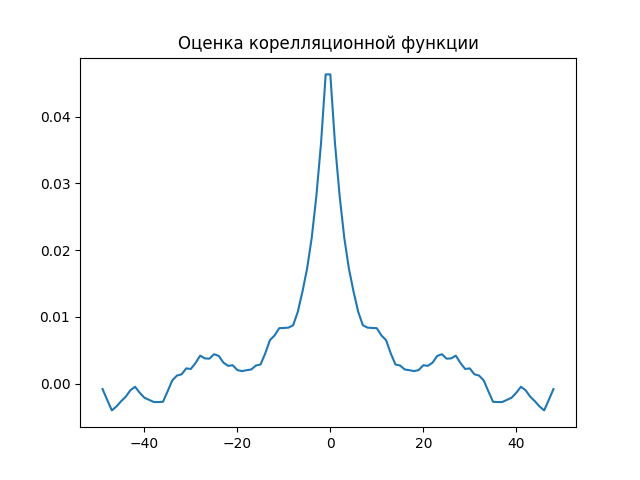
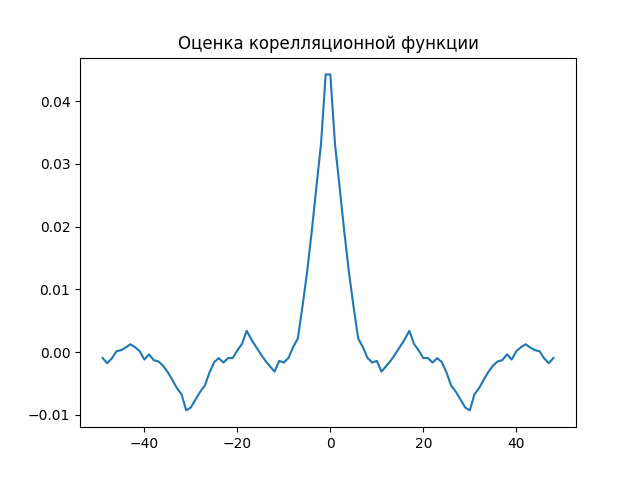
5th / OK

diff --git a/master-stage/DigitalProcessing/problem_5 (randproc)/report_randproc.tex b/master-stage/DigitalProcessing/problem_5 (randproc)/report_randproc.tex
@@ -15,147 +15,101 @@
 \date{}
 \maketitle
 																																																								\section{Формирование последовательности случайных чисел}
-		   																																																						
+																																																	
 \[N = 500\]  
 	
 	  
 Параметры случайной функции:
-\[b = 1.7\]
-\[r(n)= b * \textrm{rand} - \textrm{mean}(r1)\]	
+\[a = 0.24\]
+\[b = 2\]
+\[r(n)= b * \textrm{rand}\]	
 
 
-Параметры чистой функции:
-\[M1 = 41\]
-\[M2 = 23\]
-\[f(n)=\sin\left(\frac{2\pi}{M_1}n\right) + \cos\left(\frac{2\pi}{M_2}n\right)\]
+Вычисление последовательности:
+\[x(n) = ( 1 − a ) ⋅ x(n − 1) + a ⋅ \nu(n), n = 1, 2, ..., N −1\]
 
 
 
 \begin{lstlisting}
-def F(N):
-  M1 = 41
-  M2 = 23
+def RP(N, a, b):
   y = np.zeros(N)
-  for n in range(N):
-    y[n] = np.sin((2 * np.pi * (n - 1)) / M1) + np.cos((2 * np.pi * (n - 1)) / M2)
+  x = b * np.random.rand(N)
+  y[0] = b / 2
+
+  for n in range(1, N):
+    y[n] = y[n - 1] * (1 - a) + a * x[n]
 
   return y
-  
-def R(N):
-  b = 1.7
-  rl = b * np.random.rand(N)
-  k = np.mean(rl)
-  y = rl - k
-  return y
-
-N = 200
-w = np.arange(0, N)
-
-x = F(N)
-r = R(N)
-y = x + r
 \end{lstlisting}
 
+Получаем следующую гистограмму частоты встречаемости.
 \begin{figure}[!htb]
 \centering
-%\includegraphics[scale=1.00]{initial.png}
+\includegraphics[scale=1.00]{hist.png}
 \caption{}
 \label{}
 \end{figure}
 
 
-\section{Скользящее среднее}
-Формула:
+\section{Характеристики случайной последовательности}
+Математическое ожидание:
 
-\[y(n + L / 2) = \frac{1}{L + 1}\sum_{\lambda=0}^{L}x(n+\lambda) \]
- 
+\[M(X) = \frac{1}{N}\sum_{n=0}^{N - 1}x(n)\]
 
 
 \begin{lstlisting}
-def MA(X, L):
-  N = len(X)
-  y = np.zeros(N)
-
-  for n in range(L // 2 - 1, N - L // 2):
-    sum_41 = 0
-    for k in range(-L // 2, L // 2):
-      sum_41 += X[n + k]
-    y[n] = sum_41 / (L + 1)
-
-  return y
+m = np.mean(x)
 \end{lstlisting}
 
+1.001
 
+Дисперсия:
+\[D(X) = \frac{1}{N - 1}\sum_{n=0}^{N - 1}(x(n) - M(X))^2\]
+\begin{lstlisting}
+d = np.mean((x - m) ** 2)
+\end{lstlisting}
 
-\begin{figure}[!htb]
-\centering
-%\includegraphics[scale=1.00]{ma.png}
-\caption{}
-\label{}
-\end{figure}
-
-Результат среднеквадратичного отклонения:
-\[ 32.844\]
-\[ 18.61\]
-\[ 15.583\]
-\[ 16.063\]
-
+0.044
        
 
-\section{Четвёртые разности}
+\section{Корреляционная функция}
 
-\[y(n) = \frac{1}{35}(-3x(n-2) + 12x(n-1) + 17x(n) + 12x(n+1) - 3x(n+2)) \]
 
-%\[f(\frac{1}{\pi} \int_{0}^{\infty}(\operatorname{Re}(\hat{f})\cos(\omega t) - \operatorname{Im}(\hat{f})\sin(\omega t))d\omega \]
+
+\[R(m) = \frac{1}{N - m} \sum_{n=0}^{N - m - 1}(x(n) - M(X))(x(n+m) - M(x)) \]
+Используем $M < \frac{N}{10}$
 
 \begin{lstlisting}
-def MoFD(X):
+def R(X, M):
   N = len(X)
-  y = np.zeros(N)
-  for n in range(2, N - 2):
-    y[n] = (-3 * X[n - 2] + 12 * X[n - 1] + 17 * X[n] + 12 * X[n + 1] - 3 * X[n + 2]) / 35
+  L = N // 10 - 1
+  y2 = np.zeros(L)
 
+  for m in range(L):
+    for n in range(N - m):
+      y2[m] += (X[n] - M) * (X[n + m] - M)
+    y2[m] /= N - m
+
+  y = np.append(np.flip(y2, axis=0), y2)
   return y
 \end{lstlisting}
 
-Среднеквадратичное отклонение 22.855.
 
 \begin{figure}[!htb]
 \centering
-%\includegraphics[scale=1.00]{fourth_diff.png}
+\includegraphics[scale=1.00]{corell.png}
 \caption{}
 \label{}
 
-
 \end{figure}
 
-\section{Экспоненциальное сглаживание}
-\[y(n) = \alpha \sum_{\nu=0}^{n-1}(1-\alpha)^\nu x(n-v) + (1 - \alpha)^n x(0) \]
-Значения a и соответствующие значения среднеквадратичного отклонения: \\
-0.1 : 124.0\\
-0.2 : 68.0\\
-0.3 : 39.0\\
-0.4 : 26.0\\
-0.5 : 21.0\\
-0.6 : 21.0\\
-0.7 : 23.0\\
-0.8 : 27.0\\
-0.9 : 32.0\\
-\begin{figure}[htp]
-\centering
-%\includegraphics[scale=1.00]{exp.png}
-\caption{}
-\label{}
-\end{figure}
 
 \section{Вывод}
-Рассмотрена задача о сглаживании дискретной последовательности, состоящей из чистого сигнала и зашумления. Сглаживание позволяет устранить влияние помехи на сигнал. В данной работе были реализованы три метода сглаживания: скользящее среднее, метод четвертых разностей и экспоненциальный метод. Чем ниже значение, получаемое на выходе, тем качественнее сглаживание.\\
-Последовательность задаётся как совокупность помехи и полезного сигнала, после чего данная последовательность сглаживается методами, описанными выше.
-Качество сглаживания оценивалось с помощью метода наименьших квадратов.
-Лучшие показатели сглаживания используемых методов при различном значении параметров:\\
-Скользящее среднее: L = 6: 11.478\\
-Метод четвертых разностей (без параметров): 22.855\\
-Экспоненциальный метод: a = 0.5, 0.6: 21\\
-В результате проведенных испытаний и полученных результатов показателей качества сглаживания, можно сделать вывод о том, что сглаживание скользящим средним дает наилучший показатель.
+Рассматривались статистические характеристики случайных процессов, при помощи которых можно делать выводы о свойствах данных процессов или систем. В случае эргодичности случайного процесса, судить о его свойствах можно основываясь на одной его реализации. 
+Получены следующие характеристики случайного процесса:\\
+    • Оценка математического ожидания: 1.001;\\
+    • Оценка дисперсии случайного процесса: 0.044;\\
+    • Оценка корреляционной функции – Рисунок 2;\\
+При изучении полученных характеристик реализации случайного процесса, а также построенной гистограмме, можно сделать вывод о том, что после использования цифрового фильтра – распределение случайного процесса больше не является равномерным, а большинство значений случайного процесса сконцентрированы в промежутке [0.8; 1.1].
 
 \end{document}

diff --git a/master-stage/DigitalProcessing/problem_6 (corell)/main_corell.py b/master-stage/DigitalProcessing/problem_6 (corell)/main_corell.py
@@ -1,0 +1,114 @@
+N = 2^11;
+T = 0.02;
+t = 0:T/N:T;
+t = t(1:end-1);
+
+%y = zeros(1,N);
+
+A = 2;
+fi = 2.09;
+wi = 100;
+
+y = zeros(1, length(t));
+for i = 1:length(t)
+    y(i) = A*sin(wi*t(i) + fi);
+end
+
+Y = fft(y);
+YY = Y.*conj(Y)/N;
+
+figure(1);
+plot(t, YY);
+
+teta = 1:1:N;
+w1 = 81;
+w2 = 14;
+b = 5;
+
+x = zeros(1, length(teta));
+for i = 1:length(teta)
+    x(i) = sin(w1*T*teta(i)) + cos(w2*T*teta(i));
+end
+
+r = zeros(1, length(teta));
+for i = 1:length(teta)
+    r(i) = b*rand;
+end
+
+y = x + (r - mean(r));
+
+figure(2);
+subplot(3,1,1); plot(teta, x);
+subplot(3,1,2); plot(teta, r);
+subplot(3,1,3); plot(teta, y);
+
+r = zeros(1, fix(length(y)/10 - 1));
+for i = 1:length(r)
+    for j = 1:N - i
+        r(i) = r(i) + (y(j))*(y(j + i));
+    end
+    r(i) = r(i)/(length(y) - i);
+end
+
+w = 0:(pi/T)/N:pi/T;
+w = w(1:end-1);
+
+y = zeros(1, length(w));
+for n = 1:length(w)
+    for m = 1:length(r)
+        y(n) = y(n) + r(m)*cos(w(n)*T*m);
+    end
+    y(n) = 2*y(n);
+end
+
+figure(3); plot(w, y);
+figure(4); plot(w, abs(y));
+
+
+max_num = poisk(y);
+
+ww1 = (pi*max_num(1))/(128*T); display(ww1);
+ww2 = (pi*max_num(2))/(128*T); display(ww2);
+
+bartletta_window = zeros(1, length(r));
+ht = 1:1:length(r);
+for i = 1:length(ht)
+    if ht(i)>=0 && ht(i)<=length(ht)
+%         bartletta_window(i) = 2*ht(i)/(length(ht));
+%     else
+%         bartletta_window(i) = 2 - (2*ht(i))/(length(ht));
+%     end
+       bartletta_window(i) = 0.42 - 0.5*cos((2*pi*ht(i))/length(ht)) + 0.08*cos((4*pi*ht(i))/length(ht));
+        
+       % bartletta_window(i) = 0.54 - 0.46 *cos(2*pi*ht(i)/((length(ht)-1)));
+    end
+end
+figure(5); 
+plot(ht, bartletta_window);
+
+% bartletta_window = zeros(1, length(r));
+% ht = 1:1:length(r);
+% for i = 1:length(ht)
+%     if ht(i)>=0 && ht(i)<=(length(ht))/2
+%         bartletta_window(i) = 2*ht(i)/(length(ht));
+%     else
+%         bartletta_window(i) = 2 - (2*ht(i))/(length(ht));
+%     end
+% end
+% figure(5); 
+% plot(ht, bartletta_window);
+
+y1 = zeros(1, length(w));
+for n = 1:length(w)
+    for m = 1:length(r)
+        y1(n) = y1(n) + r(m)*bartletta_window(m)*cos(w(n)*T*m);
+    end
+    y1(n) = 2*y1(n);
+end
+
+figure(6); plot(w, y1);
+figure(7); plot(w, abs(y1));
+
+max_num = poisk(y1);
+ww1_1 = (pi*max_num(1))/(128*T); display(ww1_1);
+ww2_2 = (pi*max_num(2))/(128*T); display(ww2_2); 

diff --git a/master-stage/DigitalProcessing/problem_5 (randproc)/main_randproc.py b/master-stage/DigitalProcessing/problem_5 (randproc)/main_randproc.py
@@ -15,9 +15,11 @@ plt.show()
 
 #  математическое ожидание
 m = np.mean(x)
+print('Математическое ожидание',m)
 
 # дисперсия (квадрат среднекватратичного отклонения)
 d = np.mean((x - m) ** 2)
+print('Дисперсия', d)
 
 r = R(x, m)
 
